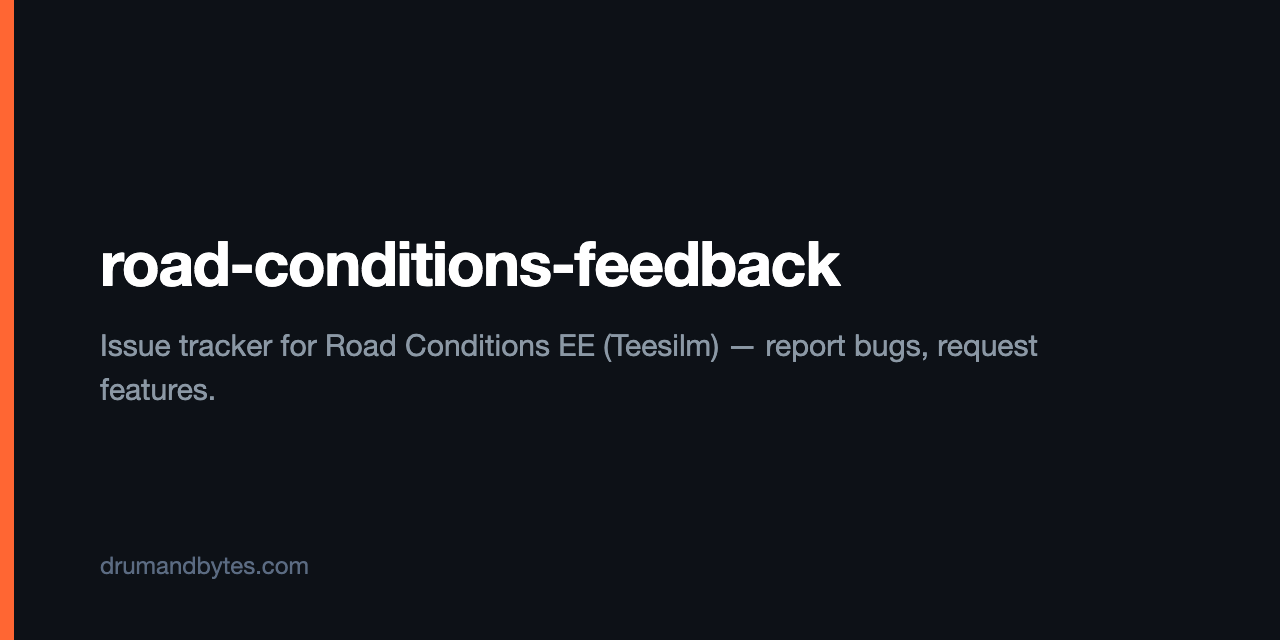
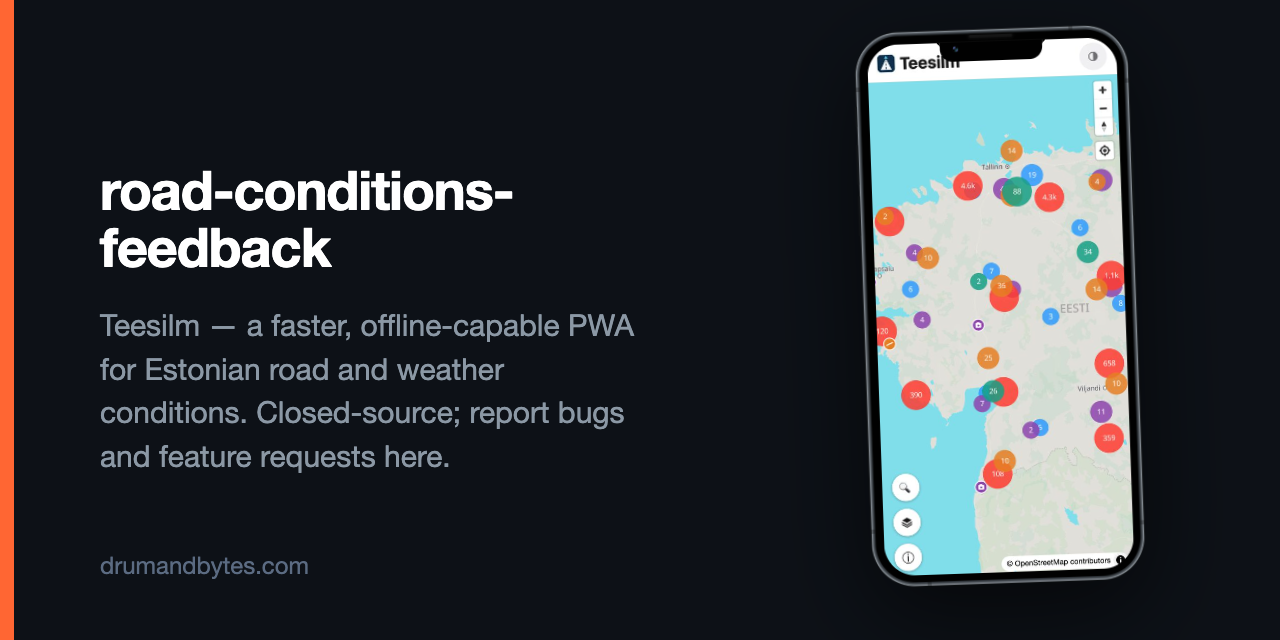
fix: road-conditions-ee went private, point at feedback repo instead (#14)
Profile no longer links the Featured-projects card at the (now private)
road-conditions-ee repo — title links straight to the live app, badges
point at the live site + the public feedback tracker instead of a dead
last-commit badge.

Social-preview card moves from road-conditions-ee (private, pointless to
upload there now) to road-conditions-feedback, which is the only public
repo left for the project.

Changed region(s): [[0.0625, 0.0312, 0.9062, 0.9375]]

diff --git a/profile/README.md b/profile/README.md
@@ -36,13 +36,13 @@ it is open source under the MIT licence.
 
 ### 🗺 Apps & PWAs
 
-**[road-conditions-ee](https://github.com/drumandbytes/road-conditions-ee)** — *Teesilm*, a
-mobile-first PWA for Estonian road and weather conditions. Offline-capable, self-hosted vector
-maps, and precise location-based hazard alerts (a radius around a saved point, not a coarse
-region subscription).<br>
+**[Teesilm](https://roadconditions.drumandbytes.ee)** — a mobile-first PWA for Estonian road and
+weather conditions. Offline-capable, self-hosted vector maps, and precise location-based hazard
+alerts (a radius around a saved point, not a coarse region subscription). Closed-source; bugs and
+feature requests go through the public [feedback tracker](https://github.com/drumandbytes/road-conditions-feedback).<br>
 <sub>
 <a href="https://roadconditions.drumandbytes.ee"><img src="https://img.shields.io/badge/live-roadconditions.drumandbytes.ee-2b8a3e?style=flat-square" alt="Live site"></a>
-<a href="https://github.com/drumandbytes/road-conditions-ee/commits"><img src="https://img.shields.io/github/last-commit/drumandbytes/road-conditions-ee?style=flat-square&label=updated" alt="Last commit"></a>
+<a href="https://github.com/drumandbytes/road-conditions-feedback/issues"><img src="https://img.shields.io/badge/feedback-road--conditions--feedback-6f42c1?style=flat-square&logo=github&logoColor=white" alt="Feedback tracker"></a>
 </sub>
 
 **[f1-walk](https://github.com/drumandbytes/f1-walk)** — fan-made walking guides to F1 street
